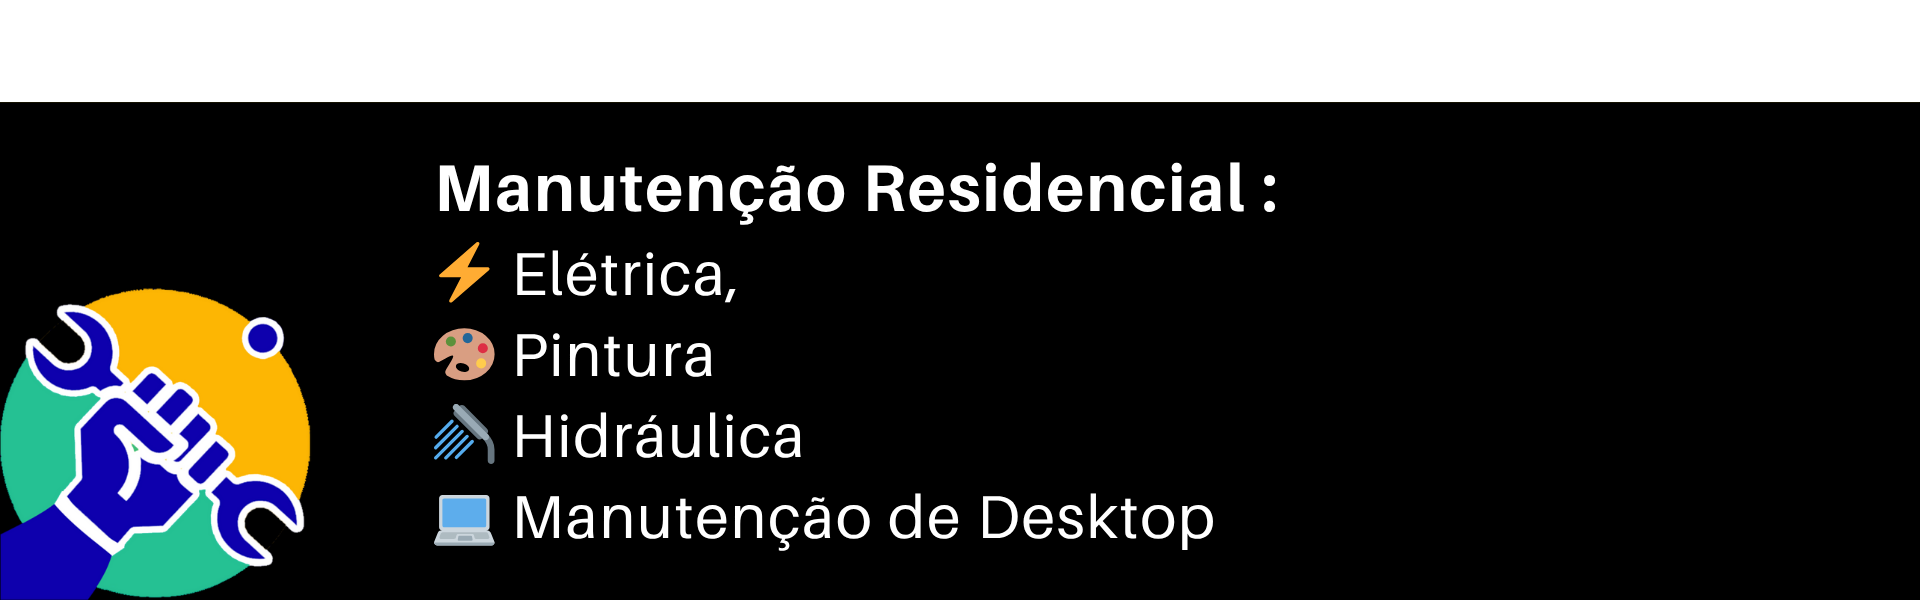
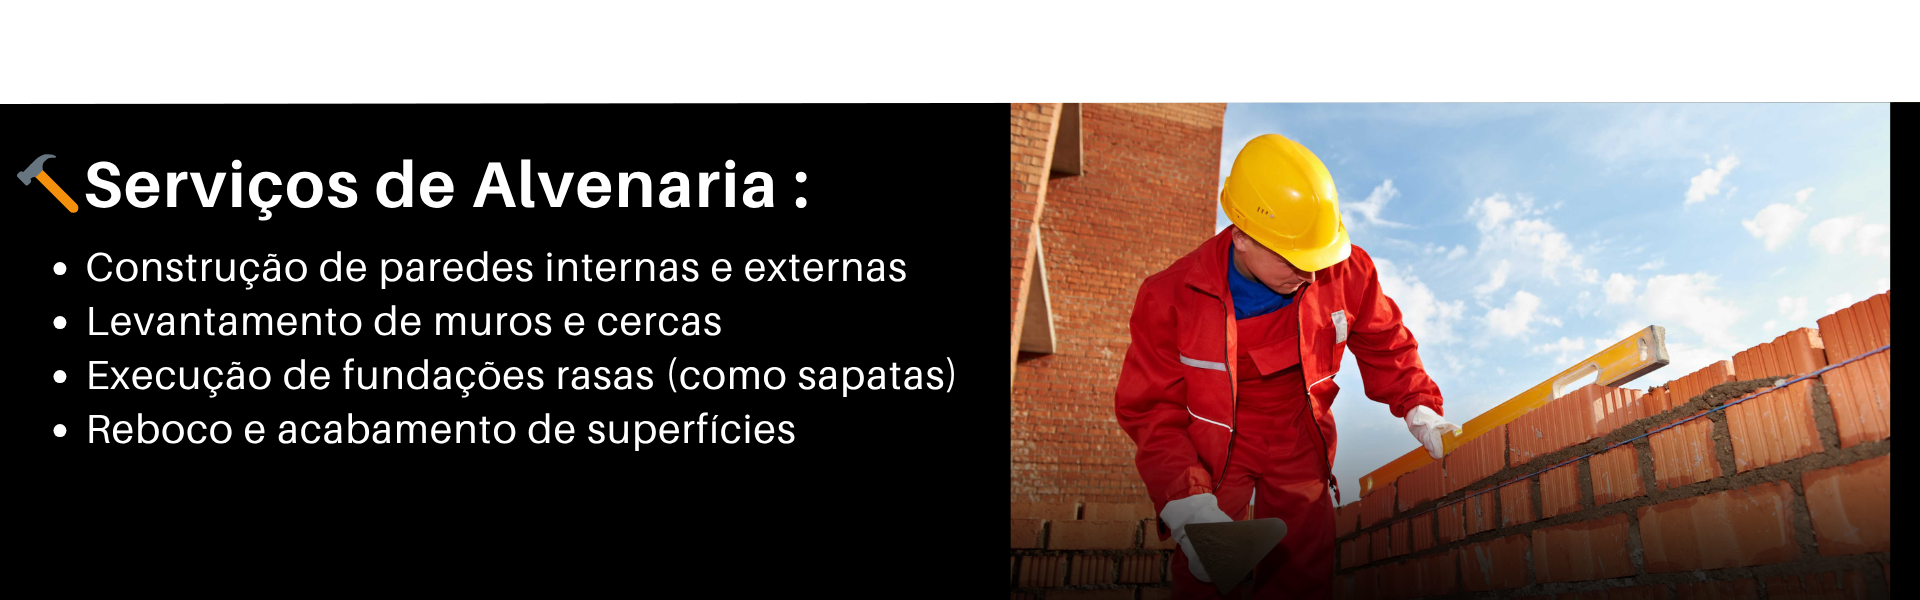
Add files via upload

diff --git a/index.html b/index.html
@@ -36,7 +36,7 @@
       <div id="divPesquisa"> 
           <div id="pesquisa">
              <div id="PSQ"><i onclick="pesquisar()" class="fa-solid fa-magnifying-glass"></i>
-          <input type="text" name="" id="input_pesquisa" placeholder="pesquisar...">  <i id="startPesq" class="fa-solid fa-check"></i>
+          <input type="text" name="" id="input_pesquisa" placeholder="Buscar por serviços...">  <i id="startPesq" class="fa-solid fa-check"></i>
           </div>
         </div>
       </div>
@@ -45,13 +45,18 @@
  <div id="menu_lateral">
         <div id="MenuIMG"> <img src="src/RD_logo.png" alt="" width="100%"></div> 
         <ul>
-          <li><a href="#" onclick="init()">🏠 Início</a></li>
-           <li><a  href="#" onclick="avaliar()">🌟 Avaliar</a></li>
-          <li><a onclick="face()"><img src="#" alt="" width="18"> Facebook</a></li>
-          <li><a onclick="INSTA()"><img src="#" alt="" width="18"> Instagran</a></li>
-          <li><a onclick=" ZAP()"><img src="#" alt="" width="20"> WhatsApp</a></li>
-          <li><a href="#" onclick="sobre()">📦 Sobre</a></li>
-           <li><a onclick="Config()">⚙ Vibrar</a></li>
+          <li><a id="a_inicio" href="#" onclick="init()"><i class="fa-solid fa-house"></i> Início</a></li>
+           <li><a  href="#" onclick="avaliar()">🌟Avaliar</a></li>
+           <li> <h3 id="red">🛠 Áreas de Seviços: </h3></li>
+          <li><a  href="#bodyB1" onclick="init()">⚡  Elétrica</a></li>
+          <li><a href="#bodyB4" onclick="init()">💻 Manutenção de Desktop </a></li>
+          <li><a href="#bodyB2" onclick="init()">🚿 Hidráulica </a></li>
+          <li><a href="#bodyB3" onclick="init()">🎨 Pintura </a></li>
+          <li><a href="#bodyB5" onclick="init()">🔨 Alvenaria</a></li>
+         <li> <h3 id="red">📞 Contatos, Rede sociais, etx: </h3></li>
+          <li><a onclick=" ZAP()"><img src="#" alt="" width="20"><i class="fa-brands fa-whatsapp"></i> WhatsApp</a></li>
+          
+          <li><a href="#footer1" onclick="sobre()">📦 Sobre</a></li>
           <li><a onclick="ADMIN()">👨💼 Administração</a></li>
           <li><a id="exitMenu" onclick="fecharMenu() "><i class="fa-solid fa-delete-left"></i> Fecha </a></li> 
           <!-- Adicione mais itens se quiser -->
@@ -111,6 +116,22 @@
           <button id="desktopStart" onclick="desktop()">💻 Manutenção de Desktop 💻</button> 
          </div>
        </div>
+       <div id="bodyB5">
+        <img id="DSimg" src="src/DS00.png" alt="">
+               <div id="Info">
+        <label> <h2> 🔨 Alvenaria</h2>
+         Construção de paredes internas e externas. <br>    
+         Levantamento de muros e cercas. <br>
+         Execução de fundações rasas (como sapatas). <br>      
+         Reboco e acabamento de superfícies. <br>
+         Assentamento de blocos cerâmicos, de concreto ou tijolos. <br>
+         Construção de churrasqueiras, lareiras e bancadas. <br>
+         Reformas e demolições parciais de alvenaria. <br>
+         Instalação de revestimentos e impermeabilização...</label>
+         <div id="divStartServ">
+          <button id="alvenariaStart" onclick="desktop()">🔨Serviços de Alvenaria 🔨</button> 
+         </div>
+       </div>
        </div>
     </div>
     <div id="body2">
@@ -126,37 +147,58 @@
       <label for=""><h2>🛠 R.D – Reparos a Domicílio</h2><br>
 <h3>Soluções práticas, rápidas e confiáveis para sua casa ou escritório em Itanhaém e região.</h3><br>
 
-<h4>Nossos Serviços:</h4>
-⚡ Elétrica
+<h4>Nossos Serviços:</h4><br>
+⚡<b> Elétrica</b>  <br>
 Instalação e troca de tomadas, interruptores e disjuntores <br>
 
 Identificação e correção de curtos e quedas de energia<br>
 
 Instalação de ventiladores de teto, luminárias e chuveiros<br><br>
 
-🚿 Hidráulica<br>
+🚿 <b>Hidráulica</b><br>
 Conserto de vazamentos em torneiras, registros e sifões<br>
 
 Desentupimento de pias, ralos e vasos sanitários<br>
 
 Instalação de torneiras, chuveiros e caixas acopladas<br><br>
 
-🎨 Pintura<br>
+🎨 <b>Pintura</b><br>
 Pintura interna e externa com acabamento profissional<br>
 
 Correção de trincas e imperfeições antes da pintura<br>
 
 Aplicação de texturas e efeitos decorativos<br><br>
 
-💻 Manutenção de Desktop<br>
+💻 <b>Manutenção de Desktop</b><br>
 Limpeza interna e externa de computadores<br>
 
 Formatação, instalação de programas e antivírus<br>
 
 Diagnóstico e troca de peças (HD, memória, fonte, etc.)<br><br>
 
-<h4>Entre em contato com a R.D – Reparos a Domicílio e agende seu orçamento sem compromisso!</h4> 📞 WhatsApp: (11 99550-1463) 📍 Atendemos Itanhaém e região. <br> 📆 Segunda a sexta, das 8h às 18h</label>
+🔨 <b>Alvenaria</b> <br>
+Construção de paredes internas e externas. <br>
+
+Levantamento de muros e cercas.<br>
+
+Execução de fundações rasas (como sapatas).<br>
+
+Reboco e acabamento de superfícies.<br>
+
+Assentamento de blocos cerâmicos, de concreto ou tijolos.<br>
+
+Construção de churrasqueiras, lareiras e bancadas.<br>
+
+Reformas e demolições parciais de alvenaria.<br>
+
+Instalação de revestimentos e impermeabilização.<br>
+<br><br>
+<h4>Entre em contato com a R.D – Reparos a Domicílio e agende seu orçamento sem compromisso!</h4><br> 📞 WhatsApp: (11 99550-1463) 📍 Atendemos Itanhaém e região. <br> 📆 Segunda a sexta, das 8h às 18h</label>
         
+    </div>
+    <br>
+    <div id="divFaleCom">
+      <button id="btnFalecom" onclick="falecom()"><i id="zap" class="fa-brands fa-whatsapp"></i> Fale conosco</button> <button onclick="inicio()" id="homee"> <i class="fa-solid fa-house"></i> Inicio</button>
     </div>
    </div>
 
@@ -166,6 +208,7 @@ Diagnóstico e troca de peças (HD, memória, fonte, etc.)<br><br>
 
 
 <script src="JS/index.js"></script>
+<a id="aa_inicio" href="#" title="inicio"></a>
 
 
 

diff --git a/css/index.css b/css/index.css
@@ -49,9 +49,11 @@ color: rgb(255, 255, 255);
 
 }
 #logoName img{
-max-width: 43px ;
+max-width: 37px ;
 margin-left: 10px;
 margin-right: 10px;
+padding-top: 5px;
+padding-bottom: 5px;
 }
 #r_d{
 color: rgb(255, 255, 255);
@@ -236,7 +238,7 @@ overflow: hidden;
  font-size: clamp(1.300rem, 1vw + 0.5rem, 1.800rem);
  margin-top: 10px;
 }
-#bodyB1 label,#bodyB2 label,#bodyB3 label,#bodyB4 label{
+#bodyB1 label,#bodyB2 label,#bodyB3 label,#bodyB4 label,#bodyB5 label{
     font-size: clamp(1.300rem, 1vw + 0.5rem, 1.800rem);
     color: rgb(255, 255, 255);
     
@@ -285,7 +287,7 @@ overflow: hidden;
     text-align: center;
     margin: auto;
     width: 50%;
-    max-width: 200px;
+    max-width: 250px;
     background-color: #ffffff00;
     padding: 20px;
     border-radius: 30px;
@@ -302,6 +304,50 @@ overflow: hidden;
    
     
 }
+#divFaleCom{
+    width: 100%;
+    display: flex;
+    justify-content: space-around;
+    align-items: center;
+    padding-bottom: 70px;
+    padding-top: 50px;
+}
+#btnFalecom{
+   min-width: 170px;
+    border: 0cap;
+    padding: 15px;
+    cursor: pointer;
+    background-color: rgb(0, 124, 17);
+    color: rgb(236, 197, 197);
+    border-radius: 30px;
+     box-shadow: 0 3px 7px rgba(20, 20, 20, 0.678);
+    font-size: clamp(0.900rem, 1vw + 0.5rem, 1rem);
+   
+}
+#btnFalecom:hover{
+    background-color: rgb(0, 167, 14);
+    color: aliceblue;
+}
+#zap{
+     font-size: clamp(1.100rem, 1vw + 0.5rem, 1.200rem);
+}
+#homee{
+    min-width: 100px;
+    background-color: #c4c4c4;
+    color: rgb(41, 40, 40);
+    border: 0cap;
+    cursor: pointer;
+    padding: 12px;
+     box-shadow: 0 3px 7px rgba(20, 20, 20, 0.678);
+    font-size: clamp(0.900rem, 1vw + 0.5rem, 1rem);
+    border-radius: 10px;
+}
+#homee:hover{
+    background-color: rgb(255, 255, 255);
+    color: black;
+}
+
+
 
 @media (min-width: 870px) {
     #menu_lateral {
@@ -323,4 +369,11 @@ overflow: hidden;
     width: 43%;
     padding-top: 10px;
 }
+}
+
+#aa_inicio{
+    display: none;
+}
+#red{
+color: rgb(94, 2, 53);
 }

diff --git a/JS/index.js b/JS/index.js
@@ -68,3 +68,8 @@ function init(){
 function sobre(){
   Menu() 
 }
+
+//inicio btn footer
+function inicio(){
+ document.getElementById('aa_inicio').click()
+}
